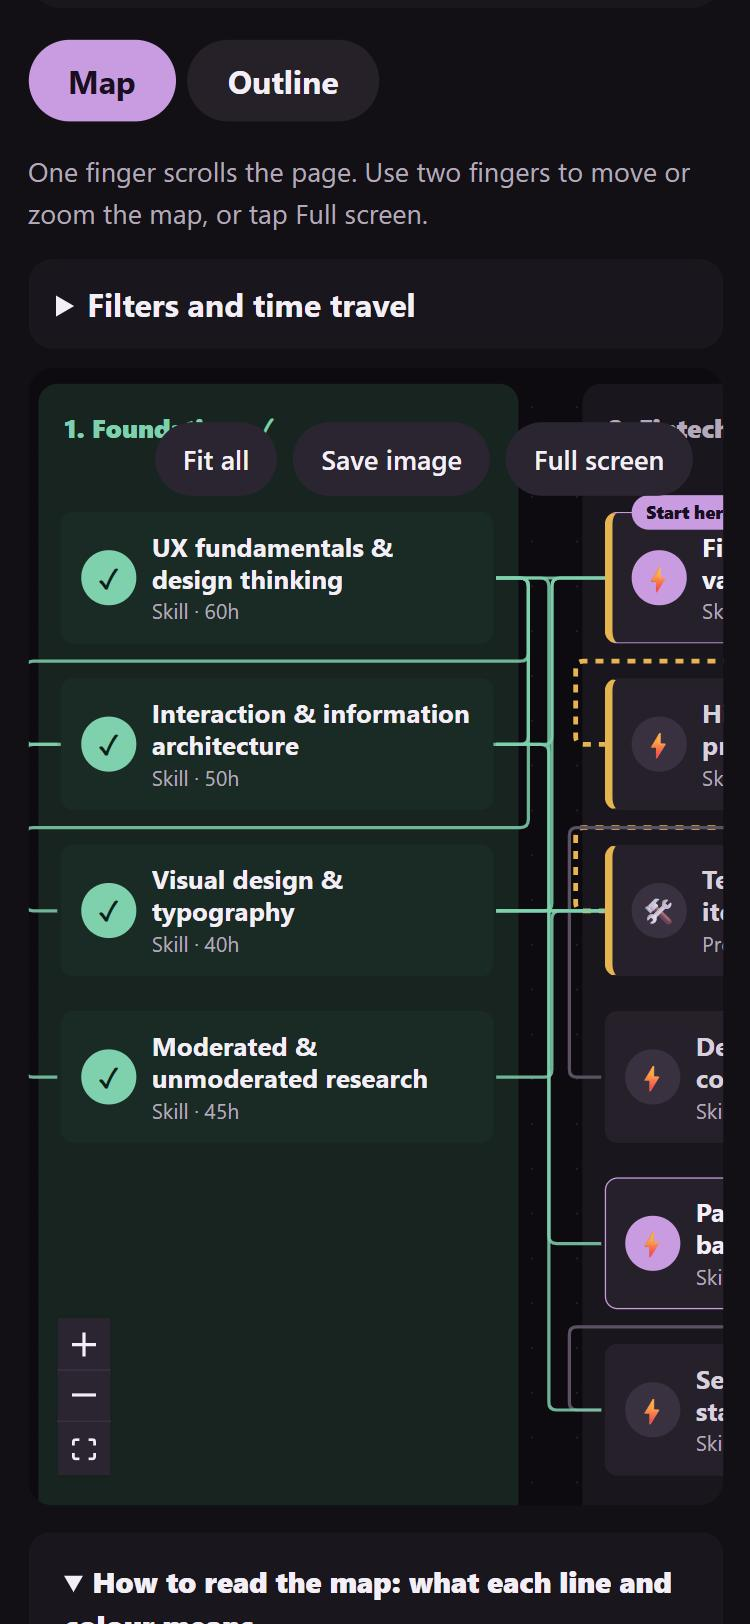
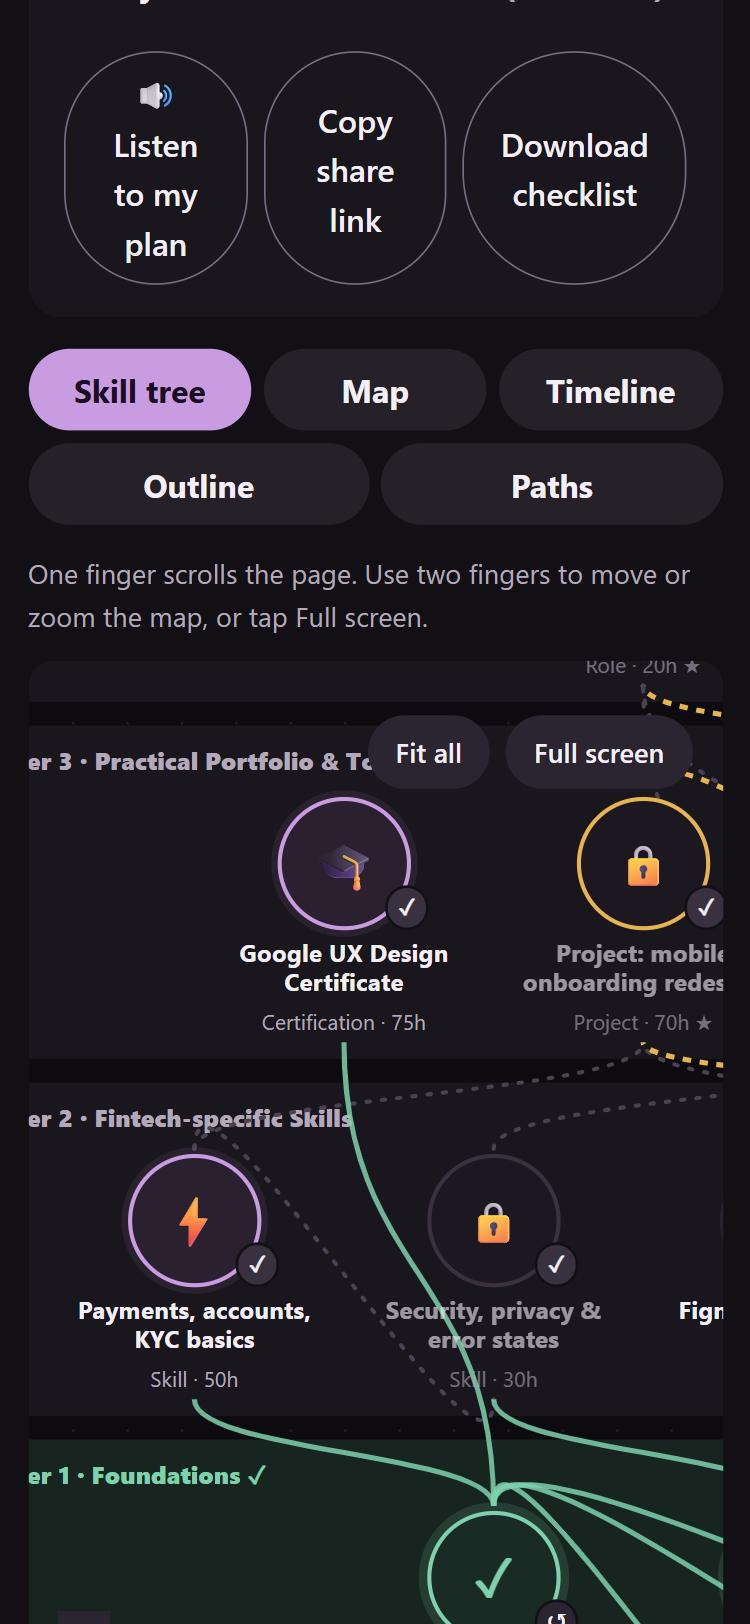
Read the plan aloud in longer chunks; show the skill tree and timeline in screenshots

Changed region(s): [[0.0307, 0.0, 0.9813, 1.0], [0.1533, 0.7389, 0.184, 0.7697]]

diff --git a/frontend/src/components/Listen.jsx b/frontend/src/components/Listen.jsx
@@ -16,6 +16,18 @@ function loadVoices() {
   })
 }
 
+// The speech engine pauses between every queued item, so many short sentences sound choppy.
+// Join sentences into a few longer chunks (kept short enough that Chrome does not cut a long utterance off).
+function joinLines(lines, limit = 200) {
+  const chunks = []
+  for (const line of lines) {
+    const last = chunks.length - 1
+    if (last >= 0 && chunks[last].length + line.length < limit) chunks[last] += ' ' + line
+    else chunks.push(line)
+  }
+  return chunks
+}
+
 // Prefer an Indian or British English voice, then any English voice, then the device's first voice.
 const pickVoice = (voices) =>
   voices.find((v) => v.lang === 'en-IN') ?? voices.find((v) => v.lang === 'en-GB') ?? voices.find((v) => v.lang.startsWith('en')) ?? voices[0] ?? null
@@ -53,7 +65,7 @@ export default function Listen({ getLines, disabled }) {
       return
     }
     const voice = pickVoice(voices)
-    const lines = getLines()
+    const lines = joinLines(getLines())
     await new Promise((resolve) => setTimeout(resolve, 80))   // Chrome can drop a speak() that comes straight after cancel()
     let started = false
     lines.forEach((text, i) => {

diff --git a/README.md b/README.md
@@ -10,9 +10,9 @@ CareerMap turns a specific dream job (for example "UI/UX Designer for fintech ap
 
 Problem statement: **1 (Reverse-Engineered Career Roadmapper)**.
 
-| The skill tree | The dashboard | On a phone |
-|---|---|---|
-| ![The skill tree with the player bar for time travel](docs/screenshot-map.jpg) | ![Progress, pace, this week, hours by phase and certificates](docs/screenshot-dashboard.jpg) | ![The phone layout](docs/screenshot-phone.jpg) |
+| The skill tree | The timeline | The dashboard | On a phone |
+|---|---|---|---|
+| ![The game-style skill tree: climb from the bottom tier](docs/screenshot-tree.jpg) | ![The timeline, with bars filling as the marker moves](docs/screenshot-timeline.jpg) | ![Progress, pace, this week, hours by phase and certificates](docs/screenshot-dashboard.jpg) | ![The phone layout](docs/screenshot-phone.jpg) |
 
 ## Done / Left / Plan
 
